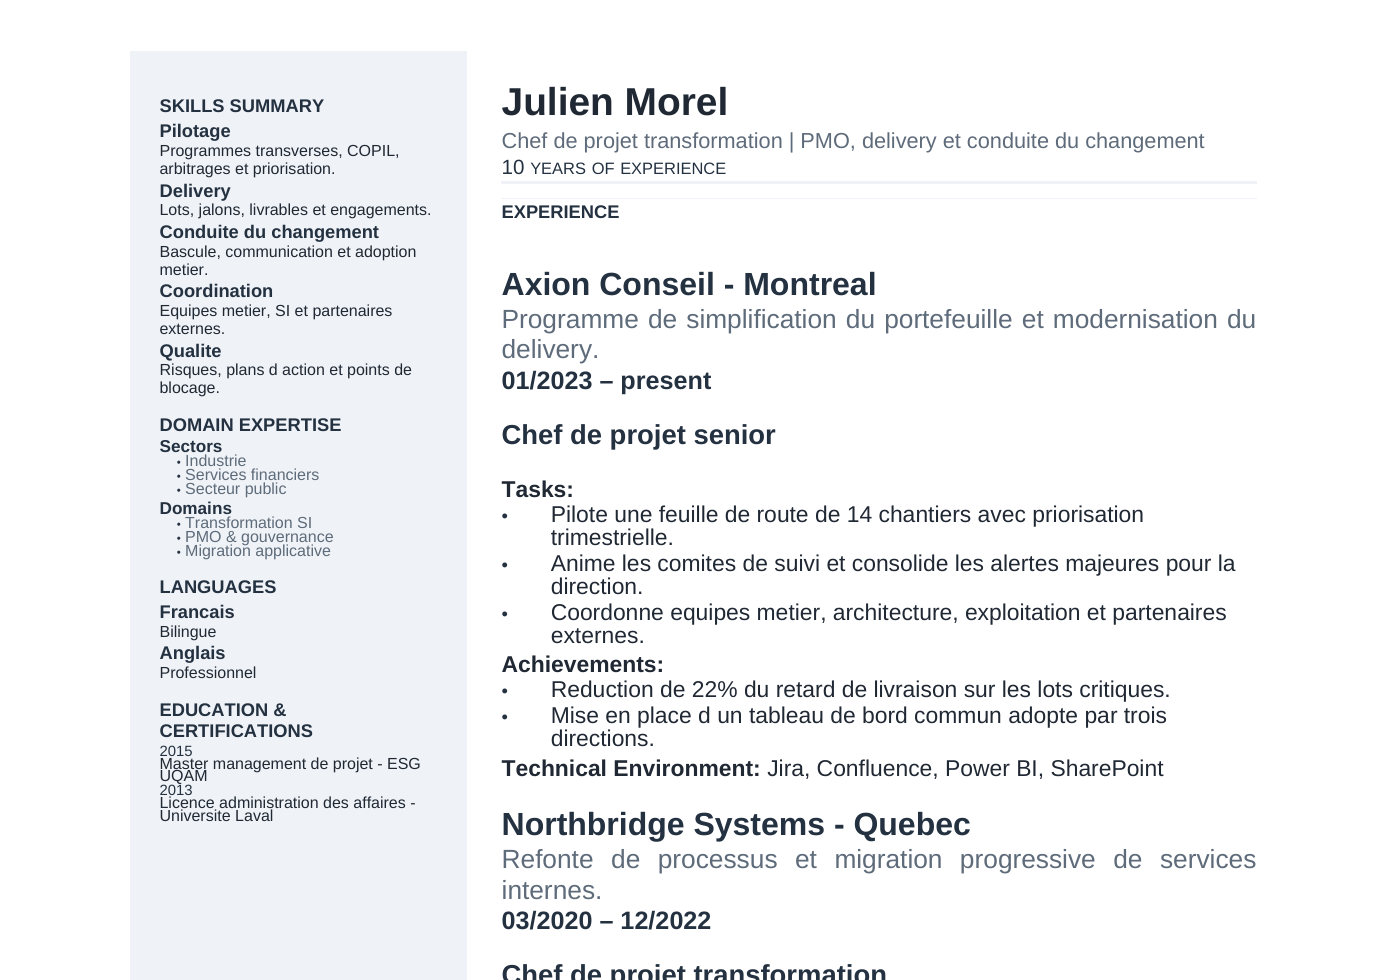
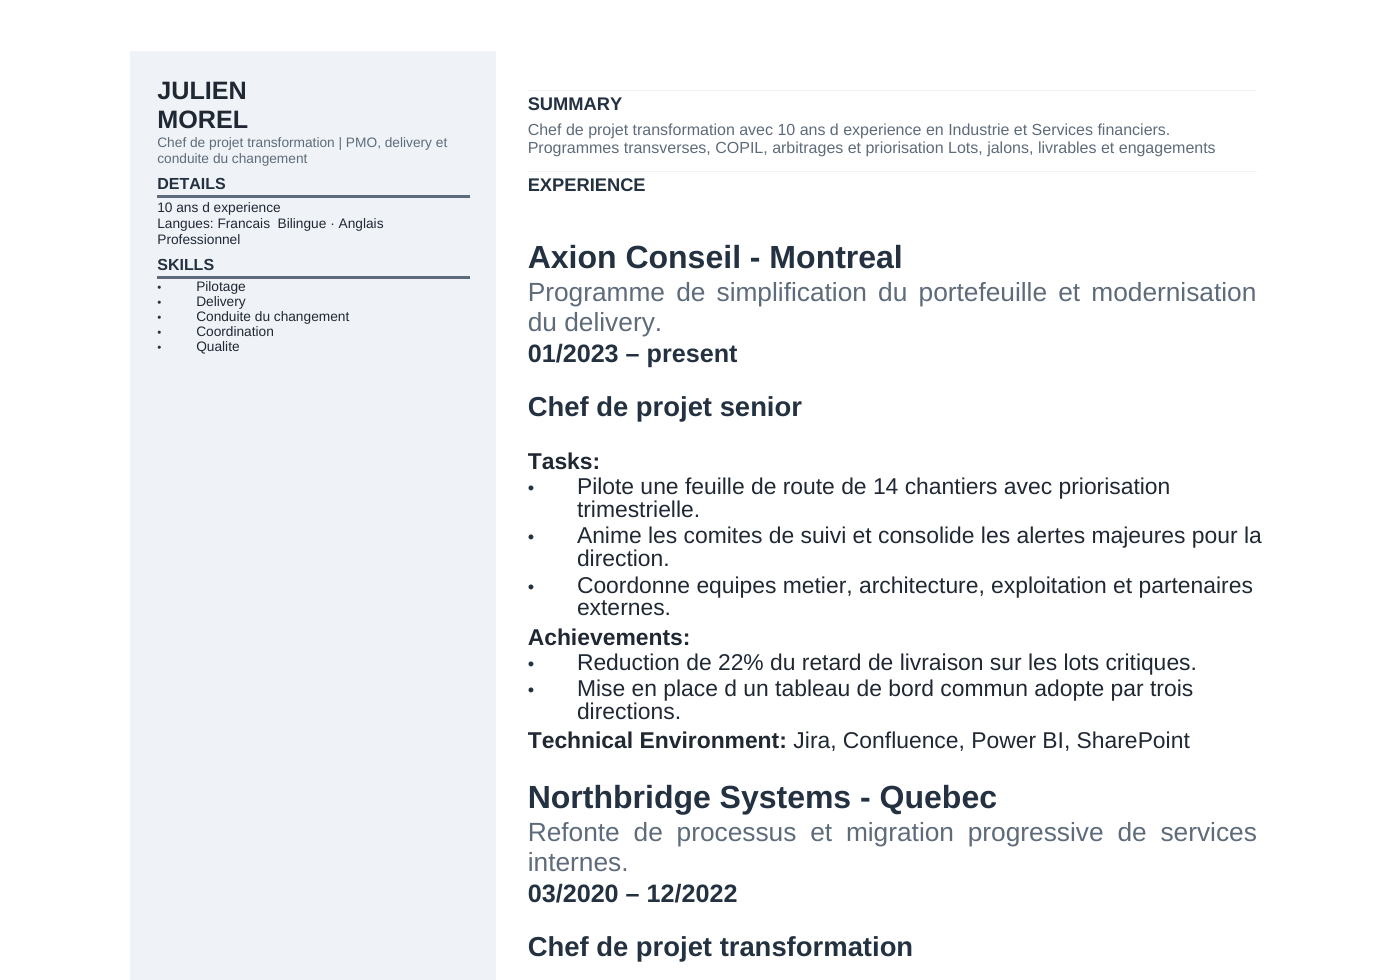
feat: add pilot visual diff loop for celestial

Changed region(s): [[0.3379, 0.0918, 0.8907, 1.0], [0.0921, 0.0612, 0.3071, 0.8571]]

diff --git a/api/src/services/template-preview.ts b/api/src/services/template-preview.ts
@@ -23,6 +23,19 @@ interface PreviewManifestItem {
   previewImagePath: string;
 }
 
+export interface PilotProofResult {
+  variant: TemplateVariant;
+  referenceImagePath: string;
+  candidateImagePath: string;
+  diffImagePath: string;
+  sideBySideImagePath: string;
+  referenceSize: {
+    width: number;
+    height: number;
+  };
+  rmse: string;
+}
+
 function escapeXml(value: string): string {
   return value
     .replaceAll('&', '&amp;')
@@ -174,6 +187,74 @@ async function createGalleryPreviewImage(pdfPath: string, outputPath: string): P
   await rename(`${prefix}-1.png`, outputPath);
 }
 
+async function copyPng(inputPath: string, outputPath: string): Promise<void> {
+  await execFileAsync('convert', [inputPath, `png:${outputPath}`]);
+}
+
+async function getImageSize(imagePath: string): Promise<{ width: number; height: number }> {
+  const { stdout } = await execFileAsync('identify', ['-format', '%w %h', imagePath]);
+  const [width, height] = stdout.trim().split(/\s+/).map((value) => Number.parseInt(value, 10));
+  if (!Number.isFinite(width) || !Number.isFinite(height)) {
+    throw new Error(`Unable to read image size for ${imagePath}`);
+  }
+  return { width, height };
+}
+
+async function compareImages(referencePath: string, candidatePath: string, diffPath: string): Promise<string> {
+  try {
+    await execFileAsync('compare', ['-metric', 'RMSE', referencePath, candidatePath, diffPath]);
+    return '0 (0)';
+  } catch (error) {
+    const stderr = error instanceof Error && 'stderr' in error ? String((error as { stderr?: string }).stderr ?? '') : '';
+    if (!existsSync(diffPath)) {
+      throw error;
+    }
+    return stderr.trim() || 'unknown';
+  }
+}
+
+function buildPilotProofHtml(result: PilotProofResult, outputDir: string): string {
+  const relativeReference = escapeHtml(relative(outputDir, result.referenceImagePath));
+  const relativeCandidate = escapeHtml(relative(outputDir, result.candidateImagePath));
+  const relativeDiff = escapeHtml(relative(outputDir, result.diffImagePath));
+  const relativeSideBySide = escapeHtml(relative(outputDir, result.sideBySideImagePath));
+
+  return [
+    '<!doctype html>',
+    '<html lang="fr">',
+    '<head>',
+    '  <meta charset="utf-8" />',
+    '  <title>Pilot visual diff</title>',
+    '  <style>',
+    '    body { font-family: system-ui, sans-serif; margin: 24px; color: #122033; background: #f6f8fb; }',
+    '    h1 { margin-bottom: 8px; }',
+    '    .lead { color: #4d6178; margin-bottom: 24px; }',
+    '    .metrics { background: white; border-radius: 14px; padding: 16px 18px; box-shadow: 0 12px 28px rgba(16, 33, 50, 0.08); margin-bottom: 24px; }',
+    '    .grid { display: grid; grid-template-columns: repeat(2, minmax(0, 1fr)); gap: 24px; }',
+    '    .card { background: white; border-radius: 18px; padding: 18px; box-shadow: 0 12px 28px rgba(16, 33, 50, 0.08); }',
+    '    .card img { width: 100%; border: 1px solid #d7deea; border-radius: 12px; background: white; }',
+    '    .card h2 { margin: 0 0 12px; font-size: 18px; }',
+    '    @media (max-width: 1000px) { .grid { grid-template-columns: 1fr; } }',
+    '  </style>',
+    '</head>',
+    '<body>',
+    `  <h1>Preuve pilote ${escapeHtml(result.variant)}</h1>`,
+    '  <p class="lead">Reference locale recadree, rendu DOCX redimensionne a la meme taille, diff heatmap et composite cote a cote.</p>',
+    '  <section class="metrics">',
+    `    <p><strong>RMSE</strong> : ${escapeHtml(result.rmse)}</p>`,
+    `    <p><strong>Taille de reference</strong> : ${result.referenceSize.width} × ${result.referenceSize.height}</p>`,
+    '  </section>',
+    '  <section class="grid">',
+    `    <article class="card"><h2>Reference</h2><img src="${relativeReference}" alt="Reference" /></article>`,
+    `    <article class="card"><h2>Rendu redimensionne</h2><img src="${relativeCandidate}" alt="Rendu" /></article>`,
+    `    <article class="card"><h2>Diff heatmap</h2><img src="${relativeDiff}" alt="Diff heatmap" /></article>`,
+    `    <article class="card"><h2>Cote a cote</h2><img src="${relativeSideBySide}" alt="Cote a cote" /></article>`,
+    '  </section>',
+    '</body>',
+    '</html>',
+  ].join('\n');
+}
+
 function buildProofHtml(items: PreviewManifestItem[], proofDir: string): string {
   const cards = items.map((item) => [
     '<article class="card">',
@@ -257,4 +338,80 @@ export async function generateTemplateVariantPreviews(rootDir = process.cwd()): 
   await writeFile(manifestPath, `${JSON.stringify(manifest, null, 2)}\n`, 'utf8');
   await writeFile(join(proofDir, 'index.html'), buildProofHtml(manifest, proofDir), 'utf8');
   return manifestPath;
+}
+
+export async function generateTemplatePilotProof(params: {
+  rootDir?: string;
+  variant: TemplateVariant;
+  referenceImagePath: string;
+  outputDir?: string;
+}): Promise<string> {
+  const rootDir = params.rootDir ?? process.cwd();
+  const apiRoot = resolveApiRoot(rootDir);
+
+  const referenceInputPath = resolve(rootDir, params.referenceImagePath);
+  if (!existsSync(referenceInputPath)) {
+    throw new Error(`Reference image not found: ${referenceInputPath}`);
+  }
+
+  const outputDir = params.outputDir
+    ? resolve(rootDir, params.outputDir)
+    : resolve(rootDir, 'tmp', 'template-pilot-proof', params.variant);
+
+  await mkdir(outputDir, { recursive: true });
+
+  const sourceCandidateImage = join(
+    apiRoot,
+    'templates',
+    'references',
+    'template-previews',
+    'proof',
+    params.variant,
+    'page-1.png',
+  );
+  if (!existsSync(sourceCandidateImage)) {
+    throw new Error(`Candidate preview page not found: ${sourceCandidateImage}`);
+  }
+
+  const referenceImagePath = join(outputDir, 'reference.png');
+  const candidateImagePath = join(outputDir, 'candidate.png');
+  const diffImagePath = join(outputDir, 'diff.png');
+  const sideBySideImagePath = join(outputDir, 'side-by-side.png');
+  const reportJsonPath = join(outputDir, 'report.json');
+  const reportHtmlPath = join(outputDir, 'index.html');
+
+  await copyPng(referenceInputPath, referenceImagePath);
+  const referenceSize = await getImageSize(referenceImagePath);
+  await execFileAsync('convert', [
+    sourceCandidateImage,
+    '-resize',
+    `${referenceSize.width}x${referenceSize.height}!`,
+    `png:${candidateImagePath}`,
+  ]);
+  await execFileAsync('montage', [
+    referenceImagePath,
+    candidateImagePath,
+    '-tile',
+    '2x1',
+    '-geometry',
+    '+24+0',
+    '-background',
+    'white',
+    sideBySideImagePath,
+  ]);
+  const rmse = await compareImages(referenceImagePath, candidateImagePath, diffImagePath);
+
+  const result: PilotProofResult = {
+    variant: params.variant,
+    referenceImagePath,
+    candidateImagePath,
+    diffImagePath,
+    sideBySideImagePath,
+    referenceSize,
+    rmse,
+  };
+
+  await writeFile(reportJsonPath, `${JSON.stringify(result, null, 2)}\n`, 'utf8');
+  await writeFile(reportHtmlPath, buildPilotProofHtml(result, outputDir), 'utf8');
+  return reportJsonPath;
 }

diff --git a/api/src/services/template-xml.ts b/api/src/services/template-xml.ts
@@ -745,42 +745,126 @@ function buildTableCell(paragraphs: string[], params: {
   );
 }
 
+function buildCelestialSidebarHeading(text: string, style: ResolvedTemplateStyle): string {
+  return buildHeaderParagraph({
+    text,
+    font: style.bodyFont,
+    color: style.sectionBannerText,
+    size: 14,
+    bold: true,
+    smallCaps: true,
+    before: 70,
+    after: 12,
+    borderBottomColor: style.mutedText,
+  });
+}
+
+function buildCelestialSidebarText(text: string, style: ResolvedTemplateStyle, after = 8): string {
+  return buildHeaderParagraph({
+    text,
+    font: style.bodyFont,
+    color: style.bodyText,
+    size: 12,
+    after,
+  });
+}
+
+function buildCelestialSidebarBullet(text: string, style: ResolvedTemplateStyle): string {
+  const bodyFont = fontRun(style.bodyFont);
+  return (
+    `    <w:p w14:paraId="${pid()}" w14:textId="77777777" ${PR}>` +
+    `<w:pPr><w:widowControl w:val="0"/>${BDR}` +
+    '<w:tabs><w:tab w:val="left" w:pos="340"/></w:tabs>' +
+    '<w:ind w:left="340" w:hanging="340"/>' +
+    '<w:spacing w:after="10" w:line="210" w:lineRule="auto"/>' +
+    `<w:rPr>${bodyFont}<w:color w:val="${style.bodyText}"/><w:sz w:val="12"/><w:szCs w:val="12"/></w:rPr>` +
+    '</w:pPr>' +
+    `<w:r><w:rPr>${bodyFont}<w:color w:val="${style.accentColor}"/><w:sz w:val="10"/><w:szCs w:val="10"/></w:rPr><w:t>•</w:t></w:r>` +
+    `<w:r><w:rPr>${bodyFont}<w:color w:val="${style.bodyText}"/><w:sz w:val="12"/><w:szCs w:val="12"/></w:rPr><w:tab/><w:t>${text}</w:t></w:r>` +
+    '</w:p>'
+  );
+}
+
+function buildCelestialSummary(data: CvData): string {
+  const primarySkills = data.technicalSkills.slice(0, 2).map((skill) => skill.description.replace(/\.$/, ''));
+  const sectorText = data.sectors.slice(0, 2).join(' et ');
+  const opening = `${data.title_line1} avec ${data.years} ans d experience en ${sectorText || 'transformation des organisations'}.`;
+  return [opening, ...primarySkills].join(' ');
+}
+
 function buildOrbitLikeDocumentXml(data: CvData, contract: TemplateContract, xmlHeader: string, style: ResolvedTemplateStyle): string {
   const selectedJobs = data.experience.slice(0, 3);
   const additionalJobs = data.experience.slice(3);
   const leftParagraphs: string[] = [];
   const rightParagraphs: string[] = [
-    buildHeaderParagraph({ text: data.name, font: style.headingFont, color: style.bodyText, size: 34, bold: true, after: 40 }),
+    sectionHeader('SUMMARY', style),
     buildHeaderParagraph({
-      text: [data.title_line1, data.title_line2].filter(Boolean).join(' | '),
+      text: buildCelestialSummary(data),
       font: style.bodyFont,
       color: style.mutedText,
-      size: 19,
-      after: 24,
-    }),
-    buildHeaderParagraph({
-      text: data.years ? `${data.years} years of experience` : ' ',
-      font: style.bodyFont,
-      color: style.accentColor,
-      size: 18,
-      smallCaps: true,
-      after: 90,
-      borderBottomColor: style.sectionBannerFill,
+      size: 14,
+      after: 34,
     }),
   ];
 
+  const nameParts = data.name.split(/\s+/).filter(Boolean);
+  const displayNameParts = nameParts.length > 1 ? nameParts : [data.name];
+  displayNameParts.forEach((part, index) => {
+    leftParagraphs.push(buildHeaderParagraph({
+      text: part.toUpperCase(),
+      font: style.headingFont,
+      color: style.bodyText,
+      size: 22,
+      bold: true,
+      after: index === displayNameParts.length - 1 ? 6 : 0,
+    }));
+  });
+
+  const roleText = [data.title_line1, data.title_line2].filter(Boolean).join(' | ');
+  if (roleText) {
+    leftParagraphs.push(buildHeaderParagraph({
+      text: roleText,
+      font: style.bodyFont,
+      color: style.mutedText,
+      size: 12,
+      after: 12,
+    }));
+  }
+
+  leftParagraphs.push(buildCelestialSidebarHeading('DETAILS', style));
+  if (data.years) {
+    leftParagraphs.push(buildCelestialSidebarText(`${data.years} ans d experience`, style));
+  }
+  if (data.languages.length > 0) {
+    leftParagraphs.push(buildCelestialSidebarText(
+      `Langues: ${data.languages.map((language) => `${language.label.replace(/:\s*$/, '')} ${language.level}`).join(' · ')}`,
+      style,
+      14,
+    ));
+  }
+
+  leftParagraphs.push(buildCelestialSidebarHeading('SKILLS', style));
+  data.technicalSkills.slice(0, 5).forEach((skill) => {
+    leftParagraphs.push(buildCelestialSidebarBullet(skill.label.replace(/:\s*$/, ''), style));
+  });
+
   contract.sections.forEach((section) => {
+    if (
+      section.key === 'technicalSkills' ||
+      section.key === 'coreSkills' ||
+      section.key === 'sectorSkills' ||
+      section.key === 'sectorExperience' ||
+      section.key === 'languages'
+    ) {
+      return;
+    }
+
     const rendered = renderSectionParagraphs(section, data, style, selectedJobs, additionalJobs, false);
     if (rendered.length === 0) {
       return;
     }
 
-    if (section.key === 'experience' || section.key === 'selectedExperience' || section.key === 'additionalExperience') {
-      rightParagraphs.push(...rendered);
-      return;
-    }
-
-    leftParagraphs.push(...rendered);
+    rightParagraphs.push(...rendered);
   });
 
   const table = (
@@ -790,16 +874,16 @@ function buildOrbitLikeDocumentXml(data: CvData, contract: TemplateContract, xml
     '<w:tblLayout w:type="fixed"/>' +
     '<w:tblBorders><w:top w:val="nil"/><w:left w:val="nil"/><w:bottom w:val="nil"/><w:right w:val="nil"/><w:insideH w:val="nil"/><w:insideV w:val="nil"/></w:tblBorders>' +
     '</w:tblPr>' +
-    '<w:tblGrid><w:gridCol w:w="2950"/><w:gridCol w:w="7150"/></w:tblGrid>' +
+    '<w:tblGrid><w:gridCol w:w="3200"/><w:gridCol w:w="6900"/></w:tblGrid>' +
     '<w:tr>' +
     buildTableCell(leftParagraphs, {
-      width: 2950,
+      width: 3200,
       shadingFill: style.sectionBannerFill,
-      margins: buildCellMargins(240, 210, 220, 260),
+      margins: buildCellMargins(220, 220, 220, 240),
     }) +
     buildTableCell(rightParagraphs, {
-      width: 7150,
-      margins: buildCellMargins(140, 240, 180, 300),
+      width: 6900,
+      margins: buildCellMargins(220, 240, 220, 280),
     }) +
     '</w:tr></w:tbl>'
   );

diff --git a/api/scripts/generate-template-pilot-proof.ts b/api/scripts/generate-template-pilot-proof.ts
@@ -1,0 +1,24 @@
+import { dirname, resolve } from 'node:path';
+import { fileURLToPath } from 'node:url';
+import { templateVariantSchema } from '../src/services/template-contract.ts';
+import { generateTemplatePilotProof } from '../src/services/template-preview.ts';
+
+const [variantArg, referenceImagePathArg, outputDirArg] = process.argv.slice(2);
+const repoRoot = resolve(dirname(fileURLToPath(import.meta.url)), '..', '..');
+
+if (!variantArg || !referenceImagePathArg) {
+  console.error(
+    'Usage: node --experimental-strip-types api/scripts/generate-template-pilot-proof.ts <variant> <reference-image> [output-dir]',
+  );
+  process.exit(1);
+}
+
+const variant = templateVariantSchema.parse(variantArg);
+const reportPath = await generateTemplatePilotProof({
+  rootDir: repoRoot,
+  variant,
+  referenceImagePath: referenceImagePathArg,
+  outputDir: outputDirArg,
+});
+
+console.log(reportPath);

diff --git a/PLAN.md b/PLAN.md
@@ -191,9 +191,17 @@
   - [x] sortir les entrees brutes sensibles du flux committe au profit d'un chemin prive hors git
   - [x] reconstruire un historique local propre a partir d'un arbre nettoye
 - [ ] Engager une boucle quasi pixel-perfect sur une variante pilote
-  - [ ] choisir la cible BetterCV pilote a cloner en priorite
-  - [ ] produire une preuve visuelle cote a cote reference vs rendu
+  - [x] choisir la cible BetterCV pilote a cloner en priorite
+    - [x] `professional-compact / Celestial`
+  - [x] produire une preuve visuelle cote a cote reference vs rendu
+    - [x] extraire une reference locale croppee depuis la carte BetterCV
+    - [x] generer un premier cote a cote `reference vs rendu`
+  - [x] industrialiser ce diff visuel pour un rerun autonome
+    - [x] target `make template-pilot-proof`
+    - [x] rapport `HTML + JSON + side-by-side + diff heatmap`
   - [ ] corriger jusqu'a obtenir une composition defensable page par page
+    - [ ] rapprocher encore la structure de colonne gauche
+    - [ ] calmer le volume de contenu affiche sur la page 1 pilote
 - [ ] Déployer et valider en environnement réel
 - [ ] Ouvrir une dernière boucle de questions résiduelles si nécessaire
 - [ ] Démarrer l'implémentation feature complète
